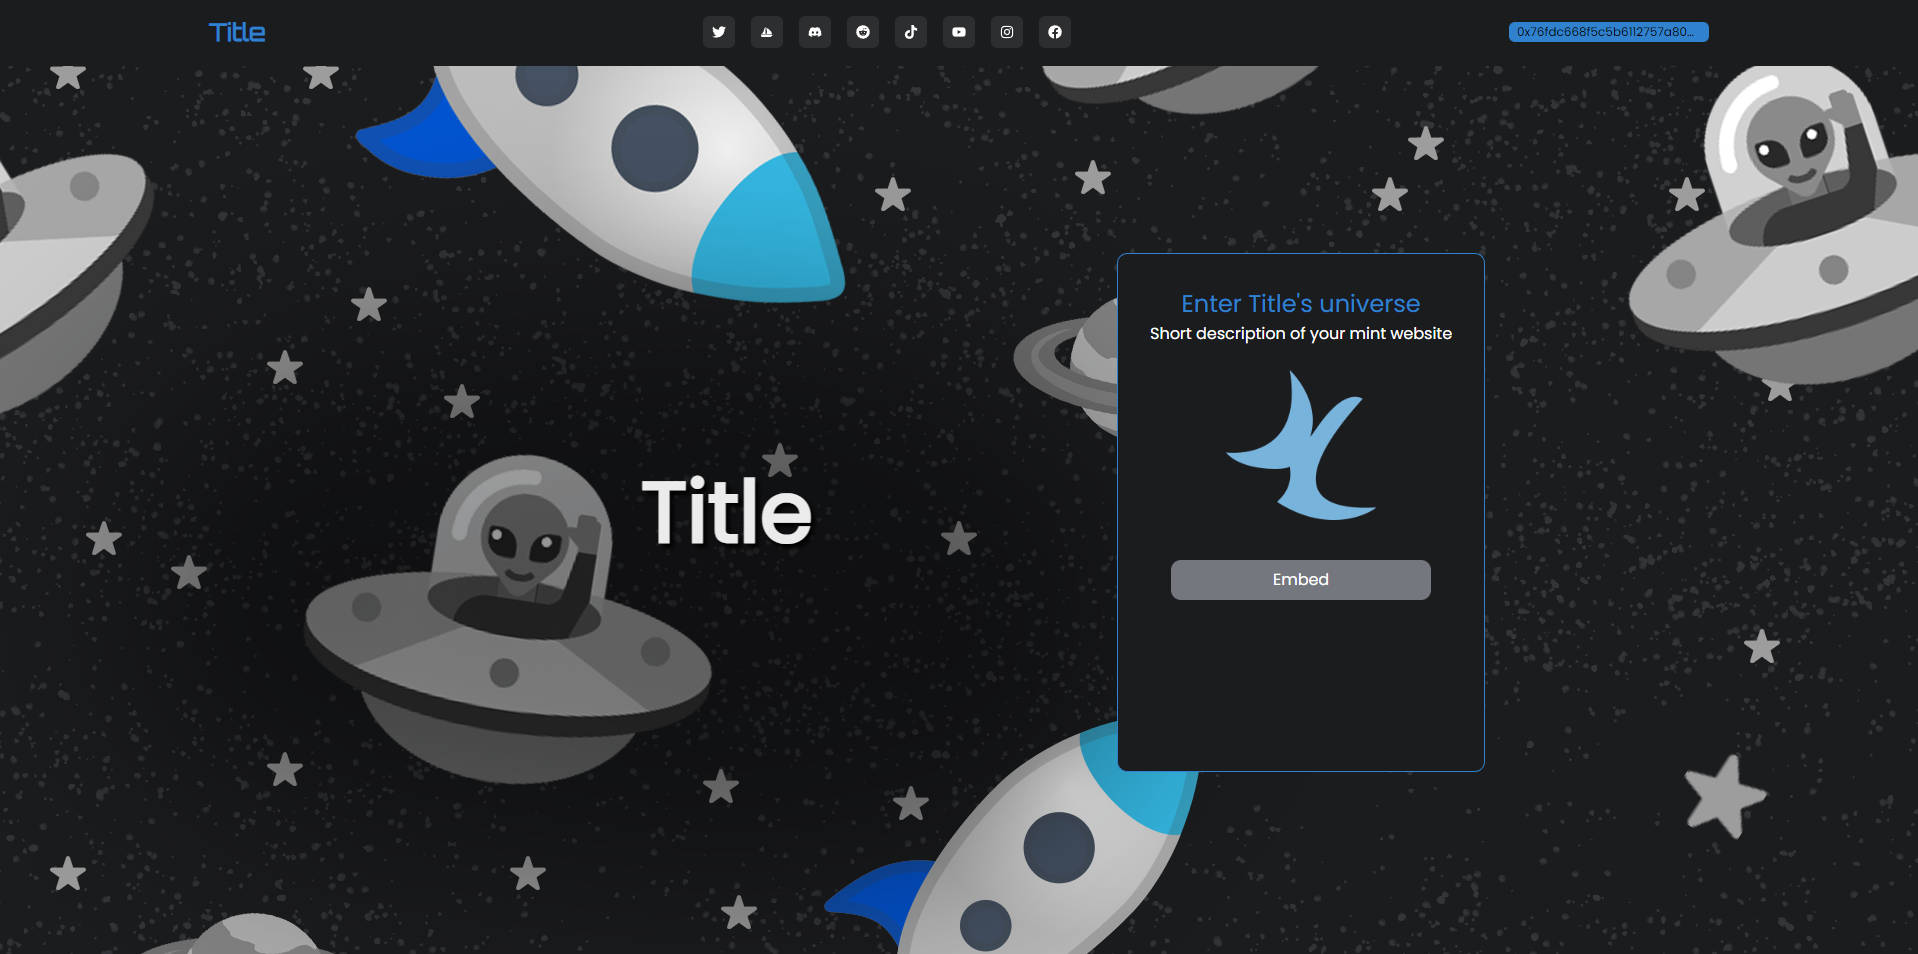
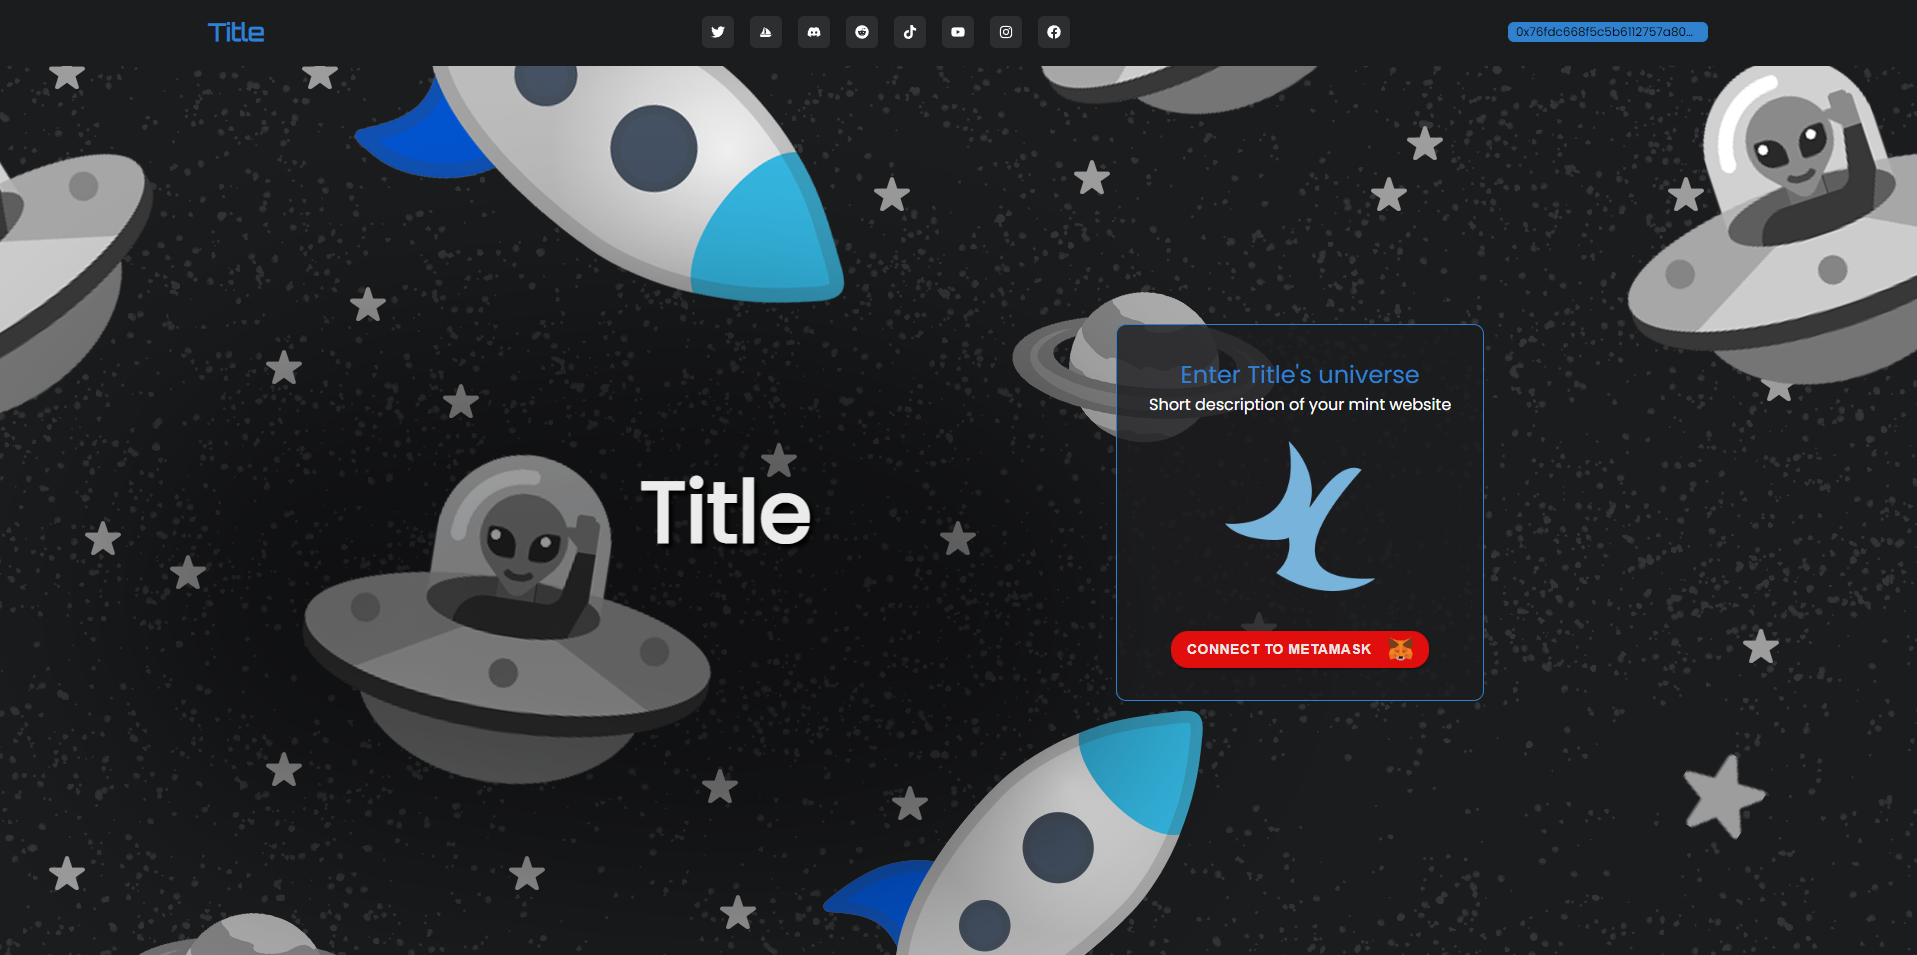
🚀 UPDATE: changes to template

Changed region(s): [[0.554, 0.304, 0.7694, 0.6992], [0.554, 0.7296, 0.6463, 0.8208], [0.3385, 0.4864, 0.4309, 0.5776]]

diff --git a/src/components/services/Website/SiteTemplates/Template4.js b/src/components/services/Website/SiteTemplates/Template4.js
@@ -35,28 +35,31 @@ const Template4 = () => {
                     <Heading as='h1' fontSize='64pt' textShadow='4px 4px 4px black' textAlign='center'>
                         {userWebsite?.components?.title}
                     </Heading>
-                    <Flex 
-                        flexDir='column' 
-                        bg='rgb(27,28,30)' 
-                        border='1px solid #DD6B20' 
-                        p='2em' 
-                        borderRadius='10px'
-                        maxW='500px'
-                        alignItems='center'
-                    >
-                        <Text fontSize='18pt' color='orange.500'>
-                            Enter {userWebsite?.components?.title}&apos;s universe
-                        </Text>
-                        <Text color='white'>
-                            {userWebsite?.components?.description}
-                        </Text>
-                        <Image  
-                            src={userWebsite?.components?.unrevealedImage}
-                            alt={userWebsite?.components?.title} 
-                            boxSize='150px'
-                            my='1.5em'
-                        />
-                        <Embed mt='1em' display='flex' justifyContent='center'/>
+                    <Flex flexDir='column' justifyContent='center'>
+                        <Flex 
+                            flexDir='column' 
+                            bg='rgba(27,28,30,.8)' 
+                            border='1px solid #DD6B20' 
+                            p='2em' 
+                            borderRadius='10px'
+                            maxW='500px'
+                            alignItems='center'
+                            
+                        >
+                            <Text fontSize='18pt' color='orange.500'>
+                                Enter {userWebsite?.components?.title}&apos;s universe
+                            </Text>
+                            <Text color='white'>
+                                {userWebsite?.components?.description}
+                            </Text>
+                            <Image  
+                                src={userWebsite?.components?.unrevealedImage}
+                                alt={userWebsite?.components?.title} 
+                                boxSize='150px'
+                                my='1.5em'
+                            />
+                            <Embed mt='1em' display='flex' justifyContent='center'/>
+                        </Flex>
                     </Flex>
                 </Wrap>
             </Flex>

diff --git a/src/components/services/Website/SiteTemplates/Template5.js b/src/components/services/Website/SiteTemplates/Template5.js
@@ -35,28 +35,30 @@ const Template5 = () => {
                     <Heading as='h1' fontSize='64pt' textShadow='4px 4px 4px black' textAlign='center'>
                         {userWebsite?.components?.title}
                     </Heading>
-                    <Flex 
-                        flexDir='column' 
-                        bg='rgb(27,28,30)' 
-                        border='1px solid #3182ce' 
-                        p='2em' 
-                        borderRadius='10px'
-                        maxW='500px'
-                        alignItems='center'
-                    >
-                        <Text fontSize='18pt' color='blue.500'>
-                            Enter {userWebsite?.components?.title}&apos;s universe
-                        </Text>
-                        <Text color='white'>
-                            {userWebsite?.components?.description}
-                        </Text>
-                        <Image  
-                            src={userWebsite?.components?.unrevealedImage}
-                            alt={userWebsite?.components?.title} 
-                            boxSize='150px'
-                            my='1.5em'
-                        />
-                        <Embed mt='1em' display='flex' justifyContent='center'/>
+                    <Flex flexDir='column' justifyContent='center'>
+                        <Flex 
+                            flexDir='column' 
+                            bg='rgba(27,28,30,.8)' 
+                            border='1px solid #3182ce' 
+                            p='2em' 
+                            borderRadius='10px'
+                            maxW='500px'
+                            alignItems='center'
+                        >
+                            <Text fontSize='18pt' color='blue.500'>
+                                Enter {userWebsite?.components?.title}&apos;s universe
+                            </Text>
+                            <Text color='white'>
+                                {userWebsite?.components?.description}
+                            </Text>
+                            <Image  
+                                src={userWebsite?.components?.unrevealedImage}
+                                alt={userWebsite?.components?.title} 
+                                boxSize='150px'
+                                my='1.5em'
+                            />
+                            <Embed mt='1em' display='flex' justifyContent='center'/>
+                        </Flex>
                     </Flex>
                 </Wrap>
             </Flex>

diff --git a/src/components/services/Website/List.js b/src/components/services/Website/List.js
@@ -18,7 +18,8 @@ const List = ({ onCreateWebsiteOpen }) => {
     const { 
         websites, 
         isGettingWebsites,
-        editingWebsite
+        editingWebsite,
+        setWebsites
     } = useWebsite();
     const { getWebsites, editWebsite } = useWebsiteControls();
 
@@ -60,7 +61,10 @@ const List = ({ onCreateWebsiteOpen }) => {
                     >
                         Create Website
                     </Button>
-                    <IconButton size='sm' onClick={getWebsites} disabled={isGettingWebsites}>
+                    <IconButton size='sm' onClick={() => {
+                        setWebsites([]);
+                        getWebsites();
+                    }} disabled={isGettingWebsites}>
                         <MdRefresh fontSize='12pt' />
                     </IconButton>
                 </HStack>
@@ -70,7 +74,7 @@ const List = ({ onCreateWebsiteOpen }) => {
                     {websites?.map((web, idx) => (
                         <Box 
                             key={idx} 
-                            cursor={editingWebsite?._id === web._id ? 'not-allowed' : 'pointer'}
+                            //cursor={editingWebsite?._id === web._id ? 'not-allowed' : 'pointer'}
                         >
                             <Flex 
                                 flexDir='column'
@@ -84,7 +88,8 @@ const List = ({ onCreateWebsiteOpen }) => {
                                     editWebsite(web);
                                 }}
                                 border='1px solid rgb(117,63,229)'
-                                pointerEvents={editingWebsite?._id === web._id ? 'none' : 'all'}
+                                cursor='pointer'
+                               // pointerEvents={editingWebsite?._id === web._id ? 'none' : 'all'}
                             >
                                 <Flex flexDir='column' flex='1' w='full'>
                                     <HStack spacing='1em'>

diff --git a/src/components/services/Website/Templates/index.js b/src/components/services/Website/Templates/index.js
@@ -56,10 +56,10 @@ const Templates = () => {
                                             src={`/assets/templates/${template.key}.png`}
                                             objectFit='cover' 
                                             boxSize='250px'
-                                            opacity='.6' 
+                                            zIndex='1337'
                                         />
                                     </Link>
-                                    <Tag position='absolute' top='2' right='2' size='sm'>
+                                    <Tag position='absolute' top='2' right='2' size='sm' zIndex='1338'>
                                         {template.sub === 'premium' && <TagLeftIcon as={GiCutDiamond} color='orange' />}
                                         <Text>
                                             {template.sub === 'premium' ? 'Premium' : 'Free'}
@@ -86,6 +86,9 @@ const Templates = () => {
                                     }
                                     rightIcon={<MdAdd />}
                                     bg={template?.sub === 'premium' ? 'orange.500' : 'rgb(117, 63, 229)'}
+                                    _hover={{
+                                        bg: template?.sub === 'premium' ? 'orange.400' : 'rgb(142, 90, 250)'
+                                    }}
                                 >
                                     Use
                                 </Button>

diff --git a/src/hooks/services/website/useWebsiteControls.js b/src/hooks/services/website/useWebsiteControls.js
@@ -88,6 +88,8 @@ export const useWebsiteControls = () => {
                 }
             })
 
+            console.log(res.data)
+
             setWebsites(res.data);
             setIsGettingWebsites(false);
         }
@@ -1007,16 +1009,18 @@ export const useWebsiteControls = () => {
             const today = new Date();
             let premiumEndDate = new Date(userWebsite.premiumEndDate);
 
-            if (today > premiumEndDate) {
-                await updateSubscription({
-                    memberId: userWebsite.memberId,
-                    subscriptionId: userWebsite.subscriptionId,
-                    isPremium: false,
-                    isExpired: true,
-                    isPublished: false,
-                    premiumStartDate: null,
-                    premiumEndDate: null
-                })
+            if (userWebsite.premiumEndDate) {
+                if (today > premiumEndDate) {
+                    await updateSubscription({
+                        memberId: userWebsite.memberId,
+                        subscriptionId: userWebsite.subscriptionId,
+                        isPremium: false,
+                        isExpired: true,
+                        isPublished: false,
+                        premiumStartDate: null,
+                        premiumEndDate: null
+                    })
+                }
             }
 
             // const accessToken = getAccessToken();

diff --git a/src/components/Meta.js b/src/components/Meta.js
@@ -3,6 +3,7 @@ import Head from 'next/head'
 const Meta = ({ title }) => {
     return <Head>
         <title>{title}</title>
+        <link rel="shortcut icon" type="image/png" href='https://www.nfthost.app/favicon.ico' />
         <meta name="title" content='NFT Host' />
         <meta name="description" content='NFT Host is a website where you can generate NFT collections and create NFT minting website. Metadata utilities available for post-generation.' />
         <meta name="keywords" content='NFT Host, Host NFT, Mint Website, Mint NFT Website Hosting, Mint NFT, NFT, Mint, Crypto Currency, Crypto, Ethereum' />

diff --git a/src/hooks/useMemberControls.js b/src/hooks/useMemberControls.js
@@ -83,7 +83,7 @@ export const useMemberControls = () => {
                         13881: `https://polygon-mumbai.infura.io/v3/${process.env.INFURA_ID}`
                     },
                 });
-                if (walletConnect.rpcUrl !== rpcUrl) throw new Error('WalletConnect: You must be on the polygon mainnet');
+                if (walletConnect.rpcUrl !== rpcUrl) throw new Error('WalletConnect is not installed correctly');
                 await walletConnect.enable();
                 window.web3 = new Web3(walletConnect);
                 setProvider(walletConnect);

diff --git a/middleware.js b/middleware.js
@@ -10,13 +10,13 @@ export default async function middleware(req) {
 
     const subpath = process.env.NODE_ENV === 'production' ? hostname.slice(0, hostname.indexOf('.')) : 'www';
 
-    if (url.pathname.startsWith(`/_sites`)) {
-        url.pathname = `/404`
-    } else {
+    // if (url.pathname.startsWith(`/_sites`)) {
+    //     url.pathname = `/404`
+    // } else {
         if (subpath !== 'www') {   
             url.pathname = `/_sites/${subpath}${url.pathname}`;
         }
-    }
+    //}
 
     return NextResponse.rewrite(url);
 }
